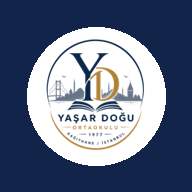
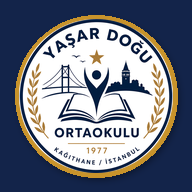
Add files via upload

diff --git a/app.js b/app.js
@@ -145,6 +145,16 @@
   }
   function programVar(y) { var p = kisisel(y, 'program'); return (p && p.matris && typeof p.matris === 'object') ? p : null; }
   function hucreAl(y, wd, no) { var p = programVar(y); if (!p) return null; var g = p.matris[String(wd)]; return g ? hucre(g[String(no)]) : null; }
+  var DERS_TAM = { mat: 'Matematik', tur: 'Türkçe', fen: 'Fen Bilimleri', ing: 'İngilizce', sos: 'Sosyal Bilgiler', ita: 'T.C. İnkılap Tarihi ve Atatürkçülük', dkab: 'Din Kültürü ve Ahlak Bilgisi', muz: 'Müzik', bes: 'Beden Eğitimi ve Spor', gs: 'Görsel Sanatlar' };
+  function dersTam(d) { var a = kzA(d); return (a && DERS_TAM[a]) || String(d || 'Ders'); }
+  function sinifSira(a, b) { var x = parseInt(a, 10) || 0, z = parseInt(b, 10) || 0; return x !== z ? x - z : (a < b ? -1 : a > b ? 1 : 0); }
+  function dersGruplari(y) {
+    var p = programVar(y), g = {}, out = []; if (!p) return out;
+    for (var wd = 1; wd <= 5; wd++) { var gg = p.matris[String(wd)] || {}; Object.keys(gg).forEach(function (no) { var h = hucre(gg[no]); if (!h) return; var k = h.sinif + '|' + h.ders; if (!g[k]) { g[k] = { sinif: h.sinif, ders: h.ders, slots: [] }; out.push(g[k]); } g[k].slots.push({ wd: wd, no: +no }); }); }
+    out.sort(function (a, b) { var t = dersTam(a.ders).localeCompare(dersTam(b.ders), 'tr'); return t || sinifSira(a.sinif, b.sinif); });
+    out.forEach(function (x, i) { x.i = i; x.tam = dersTam(x.ders); });
+    return out;
+  }
   function doldurmaListe(y) { var d = kisisel(y, 'doldurma'); return (d && Array.isArray(d.liste)) ? d.liste.filter(function (x) { return x && /^\d{4}-\d{2}-\d{2}$/.test(x.tarih || ''); }) : []; }
   function nobetim(y) {
     var n = kisisel(y, 'nobetim'); if (!n) return { liste: [], gelecek: null };
@@ -168,6 +178,7 @@
     var p = ortak(y, 'pano'), bg = iso(simdi());
     return (p && Array.isArray(p.haberler)) ? p.haberler.filter(function (h) { return h && h.baslik && (!h.bitis || h.bitis >= bg); }) : [];
   }
+  function belirliListe(y) { var b = ortak(y, 'slayt:belirliGun'), bg = iso(simdi()); return (b && Array.isArray(b.satirlar)) ? b.satirlar.filter(function (x) { return x && x.ad && ISODT.test(x.bas || '') && (x.bit || x.bas) >= bg; }).sort(function (p, q) { return p.bas < q.bas ? -1 : 1; }) : []; }
   function baglantiListe(y) {
     var p = ortak(y, 'pano'), out = [];
     if (p && Array.isArray(p.baglantilar)) p.baglantilar.forEach(function (b) { var g = b && guvenliLink(b.url); if (g && b.ad) out.push({ ad: String(b.ad), g: g }); });
@@ -277,8 +288,15 @@
     if (HO === true && Date.now() - HSON > GERI_MS) HO = null;
     return HO === true ? 'slayt' : 'sayac';
   }
-  var ONE_RENK = { 'Yarına bakış': '#79D1C3', 'Ders başlamadan': '#79D1C3', 'Gün tamamlandı': '#79D1C3', 'Hafta sonu': '#79D1C3', 'Bugün okul tatil': '#79D1C3', 'Belirli gün': '#B5A3FF', 'Nöbet düzeni': 'var(--gold)', 'Okuldan': 'var(--gold)', 'Duyuru': 'var(--gold)', 'Etkinlik': '#B5A3FF', 'Hatırlatma': '#79D1C3' };
+  var ONE_RENK = { 'Yarına bakış': '#79D1C3', 'Ders başlamadan': '#79D1C3', 'Gün tamamlandı': '#79D1C3', 'Hafta sonu': '#79D1C3', 'Bugün okul tatil': '#79D1C3', 'Belirli gün': '#B5A3FF', 'Nöbet düzeni': 'var(--gold)', 'Okuldan': 'var(--gold)', 'Duyuru': 'var(--gold)', 'Etkinlik': '#B5A3FF', 'Hatırlatma': '#79D1C3', 'Bugün sende': '#79D1C3', 'Nöbetin': '#7DB6F2', 'Yaklaşan sınav': '#B5A3FF', 'Sonraki tatil': '#F08A7E', 'Bu haftanın kazanımı': 'var(--gold)', 'Eğitim haftası': '#79D1C3', 'Derslerin': '#B5A3FF' };
   var IKN = {
+    'Bugün sende': '<path d="M5 4h10a3 3 0 013 3v13H8a3 3 0 01-3-3zM5 17a3 3 0 013-3h10"/>',
+    'Nöbetin': '<path d="M4 9a6 6 0 016-5h7M17 4l-2.5-2M17 4l-2.5 2.5M20 15a6 6 0 01-6 5H7M7 20l2.5 2M7 20l2.5-2.5"/>',
+    'Yaklaşan sınav': '<path d="M7 3h8l4 4v14H7zM14 3v5h5M10 13h6M10 17h4"/>',
+    'Sonraki tatil': '<circle cx="12" cy="12" r="4"/><path d="M12 3v2M12 19v2M3 12h2M19 12h2M5.6 5.6L7 7M17 17l1.4 1.4M5.6 18.4L7 17M17 7l1.4-1.4"/>',
+    'Bu haftanın kazanımı': '<circle cx="12" cy="12" r="8.5"/><circle cx="12" cy="12" r="4"/><path d="M12 12l5-5"/>',
+    'Derslerin': '<path d="M5 4h10a3 3 0 013 3v13H8a3 3 0 01-3-3zM5 17a3 3 0 013-3h10M9 8h5"/>',
+    'Eğitim haftası': '<rect x="4" y="5.5" width="16" height="14" rx="2.5"/><path d="M4 10h16M8.5 3.5v4M15.5 3.5v4"/>',
     'Okuldan': '<path d="M4 10v4h3l5 4V6L7 10H4zM16 9.5a3.5 3.5 0 010 5M18.5 7a7 7 0 010 10"/>',
     'Etkinlik': '<rect x="4" y="5.5" width="16" height="14" rx="2.5"/><path d="M4 10h16M8.5 3.5v4M15.5 3.5v4"/>',
     'Hatırlatma': '<path d="M6 16.5V11a6 6 0 0112 0v5.5l1.5 1.5h-15zM10 20.5a2 2 0 004 0"/>',
@@ -313,10 +331,80 @@
     var par = metinVeLink(String(d.metin || '')), ad = { etkinlik: 'Etkinlik', hatirlatma: 'Hatırlatma' }[d.tur] || 'Okuldan';
     return oneKart({ k: ad, t: d.baslik, s: [z, par.metin.replace(/\s+/g, ' ').slice(0, 90)].filter(Boolean).join(' · ') }, true);
   }
+  // ---- Zengin slayt kartları: yalnız GERÇEK içerik varsa kart üretilir (boş kart yok)
+  var KZS = {};
+  function isGunu(a, bds) { var n = 0, d = gunEkle(a, 1), son = tarihCoz(bds); for (var i = 0; i < 400 && d <= son; i++) { var w = d.getDay(); if (w >= 1 && w <= 5) n++; d = gunEkle(d, 1); } return n; }
+  function gunFark(a, bds) { return Math.round((tarihCoz(bds) - tarihCoz(a)) / 86400000); }
+  function kzSlayt(C) {
+    var y = C.y; if (!programVar(y)) return null;
+    var G = C.gb, d = C.d;
+    if (!(G.tip === 'ders' && G.ders.length && C.T < C.Z0)) { var nx = sonrakiOkul(C); if (!nx) return null; G = nx.gb; d = nx.d; }
+    var my = null, ea = null;
+    for (var i = 0; i < G.ders.length && !my; i++) { var h = hucreAl(y, G.wd, i + 1); if (h) { var e = kzEsle(h); if (e && e.a) { my = h; ea = e; } } }
+    if (!my) return null;
+    var g = parseInt(my.sinif, 10); if (!(g >= 5 && g <= 8)) return null;
+    var pl = kzPlan(my, (ea.a === 'sos' && g === 8) ? 'ita' : ea.a); if (!pl) return null;
+    var ds = iso(d), key = pl.f + '|' + ds;
+    if (key in KZS) return KZS[key] || null;
+    KZS[key] = false;
+    kzJson('kazanim/' + pl.f).then(function (P) {
+      if (!P || !Array.isArray(P.haftalar)) return;
+      var hf = kzHafta(P, ds); if (!hf || !hf.m || !hf.m.length) return;
+      var m0 = hf.m[0], tx = String(m0.t || '').replace(/\s+/g, ' ');
+      KZS[key] = { k: 'Bu haftanın kazanımı', t: my.sinif + (my.ders ? ' ' + my.ders : '') + (m0.k ? ' · ' + m0.k : ''), s: (tx.length > 110 ? tx.slice(0, 107) + '…' : tx) + (hf.m.length > 1 ? ' (+' + (hf.m.length - 1) + ' kazanım daha)' : ''), dt: 'gun:' + ds };
+      if (!kilit && !DT.acik) render();
+    });
+    return null;
+  }
+  function yeniSlaytlar(C) {
+    var y = C.y, out = [], bg = C.gb.ds; if (!y || C.gb.tip === 'yok') return out;
+    var planli = !!programVar(y), bitti = C.gb.tip === 'ders' && C.T >= C.Z0, ol = null;
+    function olaylarAl() { return ol || (ol = olaylar(y)); }
+    // 0) Hafta sonu: tek bir 'İyi Tatiller' mesajı
+    if (C.gb.tip === 'hs') out.push({ k: 'Hafta sonu', t: 'İyi Tatiller', s: '', dt: '' });
+    // 1) Bugün sende
+    if (planli && C.gb.tip === 'ders' && C.gb.ders.length && !bitti) {
+      var n = 0, ilk = 0, i;
+      for (i = 1; i <= C.gb.ders.length; i++) if (hucreAl(y, C.gb.wd, i)) { n++; if (!ilk) ilk = i; }
+      if (n) { var ih = hucreAl(y, C.gb.wd, ilk); out.push({ k: 'Bugün sende', t: 'Bugün ' + n + ' dersin var', s: 'İlk dersin ' + C.gb.ders[ilk - 1][1] + '\'da' + (ih ? ', ' + ih.sinif : ''), dt: 'gun:' + bg }); }
+    }
+    // 2) Nöbetin (bu hafta ya da gelecek 7 gün içindeki ilk nöbet günü)
+    for (var j = (bitti ? 1 : 0); j <= 7; j++) {
+      var dj = gunEkle(C.d, j), gj = gunBilgi(y, dj); if (gj.tip !== 'ders') continue;
+      var yer = nobetYer(y, gj.wd, iso(dj));
+      if (yer) { out.push({ k: 'Nöbetin', t: (j === 0 ? 'Bugün' : (j === 1 ? 'Yarın' : GUN[dj.getDay()])) + ' nöbetin var', s: yer, dt: 'nbd' }); break; }
+    }
+    // 3) Yaklaşan sınav (14 gün içinde)
+    var son14 = iso(gunEkle(C.d, 14)), sn = olaylarAl().filter(function (o) { return o.k === 'sinav' && o.bit >= bg && o.bas <= son14; })[0];
+    if (sn) {
+      var kl = gunFark(bg, sn.bas), kt = sn.bas <= bg ? 'Şu an' : (kl === 1 ? 'Yarın' : kl + ' gün sonra');
+      out.push({ k: 'Yaklaşan sınav', t: sn.ad, s: sn.hafta ? kt + ' · ' + aralik(sn.bas, sn.bit) : kt + ' · ' + gunAy(sn.bas) + (sn.alt ? ' · ' + sn.alt : ''), dt: olayKodu(sn) });
+    }
+    // 4) Sonraki tatil: takvim günü olarak kalan gün + tarihler (hafta sonu tatil sayılmaz, listeden yalnız gerçek tatiller seçilir)
+    var th = ortak(y, 'tatil');
+    if (th && Array.isArray(th.liste) && C.gb.tip !== 'tatil') {
+      var tl = th.liste.filter(function (h) { return h && ISODT.test(h.bas || '') && !h.yarim && h.bas > bg; }).sort(function (p, q) { return p.bas < q.bas ? -1 : 1; })[0];
+      if (tl) {
+        var N = gunFark(bg, tl.bas), tad = String(tl.ad || 'Tatil'), te = olaylarAl().filter(function (o) { return o.k === 'tatil' && o.bas === tl.bas; })[0];
+        out.push({ k: 'Sonraki tatil', t: tad + ' · ' + (N <= 1 ? 'yarın' : N + ' gün kaldı'), s: aralik(tl.bas, tl.bit || tl.bas), dt: te ? olayKodu(te) : '' });
+      }
+    }
+    // 4b) Derslerin: her ders için şubeleri (dokununca liste)
+    var dg = dersGruplari(y), dgrp = {}, dsr = [];
+    dg.forEach(function (x) { var k = kzAd(x.tam); if (!dgrp[k]) { dgrp[k] = { tam: x.tam, sin: [], saat: 0, k: k }; dsr.push(dgrp[k]); } dgrp[k].sin.push(x.sinif); dgrp[k].saat += x.slots.length; });
+    dsr.forEach(function (x) { out.push({ k: 'Derslerin', t: x.tam, s: x.sin.join(' · ') + ' — haftada ' + x.saat + ' saat', dt: dg.length === 1 ? 'dr:0' : 'dl:' + x.k }); });
+    // 5) Bu haftanın kazanımı (ders programı + kazanım planı; yoksa kart çıkmaz)
+    var kz = kzSlayt(C); if (kz) out.push(kz);
+    // 6) Eğitim-öğretim haftası
+    var eo = ortak(y, 'egitimhaftasi'); if (!eo || !Array.isArray(eo.liste)) eo = (KZ.idx && Array.isArray(KZ.idx.hafta)) ? { liste: KZ.idx.hafta } : null;
+    if (eo) for (var q = 0; q < eo.liste.length; q++) { var eh = eo.liste[q]; if (eh && ISODT.test(eh.bas || '') && ISODT.test(eh.bit || '') && eh.bas <= bg && bg <= eh.bit && +eh.n > 0) { out.push({ k: 'Eğitim haftası', t: eh.n + '. eğitim-öğretim haftası', s: aralik(eh.bas, eh.bit), dt: '' }); break; } }
+    return out;
+  }
   function heroSlaytlar(C) {
     var y = C.y, s = [], akt = dersAnimi(C);
     if (yayinlandi(y, 'gokyuzu')) s.push({ id: 'gokyuzu' });
     if (!akt) s.push({ id: 'durum', h: durumKarti(C, 0) });
+    if (!GIZLE.pano) yeniSlaytlar(C).forEach(function (p, i) { s.push({ id: 'y' + i, h: oneKart(p, true), dt: p.dt || undefined }); });
     duyuruListe(y).slice(0, 8).forEach(function (d, i) { s.push({ id: 'd' + i, h: duyuruKart(d, C), dt: 'du:' + i }); });
     if (!GIZLE.pano) oneCikanlar(C).forEach(function (p, i) { s.push({ id: 'o' + i, h: oneKart(p, true), dt: p.dt }); });
     if (!s.length) s.push({ id: 'durum', h: durumKarti(C, 0) });
@@ -369,7 +457,7 @@
     }
     var bgun = ortak(y, 'slayt:belirliGun');
     if (bgun && Array.isArray(bgun.satirlar)) {
-      var son = iso(gunEkle(C.d, 7)), b = null;
+      var son = iso(gunEkle(C.d, 14)), b = null;
       bgun.satirlar.forEach(function (x) { if (!b && x && x.ad && x.bit >= bg && x.bas <= son) b = x; });
       if (b) out.push({ k: 'Belirli gün', t: String(b.ad), s: aralik(b.bas, b.bit) + (b.bas <= bg ? ', şu an' : ''), c: '#7F62E0', dt: 'bg' });
     }
@@ -609,7 +697,7 @@
     if (!y) return damga(C) + '<div class="empty"><b>' + (durum.yenileniyor ? 'Bilgiler getiriliyor' : 'Bilgiler alınamadı') + '</b>' + (durum.yenileniyor ? '' : 'İnternet bağlantısını kontrol edip yenile.') + '</div>';
     if (eskiMi(onbellek())) return damga(C) + '<div class="empty"><b>Bilgiler eski olduğu için gizlendi</b>Son güncelleme ' + A.ESKI_SAAT + ' saatten önce. İnternete bağlanınca otomatik yenilenir.</div>';
     if (y.yayinDurumu !== 'acik') return damga(C) + '<div class="empty"><b>Yayın şu an kapalı</b>Okul yönetimi açtığında bilgiler burada görünecek.</div>';
-    var p = [sGunum(C), sYaklasan(C), sDuyuru(C), sNobetci(C), sPanoOzet(C)].join('');
+    var p = [sGunum(C), sNobetci(C), sDuyuru(C), sYaklasan(C), sPanoOzet(C)].join('');
     return damga(C) + (p || '<div class="empty"><b>Bugün paylaşılan bir şey yok</b>Yeni bir duyuru ya da bilgi paylaşıldığında bu sayfada görünür.</div>');
   }
   function yayinKapali(C) { return !C.y || eskiMi(onbellek()) || C.y.yayinDurumu !== 'acik'; }
@@ -650,13 +738,17 @@
     });
     return h + '</div>';
   }
+  function derslerimHTML(C) {
+    var l = dersGruplari(C.y); if (!l.length) return '';
+    return '<div class="sec">' + secH('Derslerim', l.length + ' ders-şube') + '<div class="dg">' + l.map(function (x) { return '<button type="button" class="dk" data-dt="dr:' + x.i + '"><b class="d">' + esc(x.sinif) + '</b><span>' + esc(x.tam) + '</span><em>haftada ' + x.slots.length + ' saat</em></button>'; }).join('') + '</div></div>';
+  }
   function programHTML(C) {
     var y = C.y, p = programVar(y);
     if (!p) return '<div class="empty"><b>Programın henüz yayınlanmadı</b>Okul yönetimi ders programını paylaştığında burada görünür.</div>';
     var toplam = 0, siniflar = {};
     for (var wd = 1; wd <= 5; wd++) { var g = p.matris[String(wd)] || {}; Object.keys(g).forEach(function (no) { var h = hucre(g[no]); if (h) { toplam++; siniflar[h.sinif] = 1; } }); }
     return '<div class="stamp"><i></i>Güncel program' + (p.yururluk && /^\d{4}-\d{2}-\d{2}$/.test(p.yururluk) ? ', ' + gunAy(p.yururluk) + ' tarihli' : '') + '</div>' + ttHTML(C)
-      + '<div class="lgd"><span><i style="background:var(--ink)"></i>Şu an</span><span><i style="border:1px solid var(--teal)"></i>Ders doldurma</span></div>'
+      + derslerimHTML(C) + '<div class="lgd"><span><i style="background:var(--ink)"></i>Şu an</span><span><i style="border:1px solid var(--teal)"></i>Ders doldurma</span></div>'
       + '<div class="stat"><div><b>' + toplam + '</b><span>haftalık ders</span></div><div><b>' + Object.keys(siniflar).length + '</b><span>farklı sınıf</span></div></div>';
   }
   function nobetSekmesi(C) {
@@ -725,11 +817,11 @@
     var liste = n.liste;
     if (n.gelecek && n.gelecek.bas <= a) liste = n.gelecek.liste;
     if (liste.length) nobetSatir = liste.slice().sort(function (p, q) { return p.gun - q.gun; }).map(function (x) { var d = gunEkle(mon, (+x.gun) - 1); return '<div class="rw" data-dt="gun:' + iso(d) + '"><div class="a"><b>' + GUN[(+x.gun) % 7] + ', ' + esc(x.yer) + '</b><span class="s">' + (iso(d) < C.gb.ds ? 'Tamamlandı.' : '') + '</span></div></div>'; }).join('');
-    if (sonraki && sonraki === a && n.gelecek && WK >= 1) h += '<div class="sec"><div class="rot"><p>Yeni nöbet düzenin, ' + esc(gunAy(a)) + ' tarihinden itibaren</p><p style="margin-top:10px;font-weight:500">Yönetim onayladı.</p></div></div>';
-    else if (sonraki && WK === 0 && iso(gunEkle(mon, 7)) === sonraki && n.gelecek) h += '<div class="sec"><div class="rot"><p>Gelecek hafta nöbet düzenin değişiyor</p><button class="lk" type="button" data-go="1">Gelecek haftaya bak</button></div></div>';
-    if (nobetSatir) h += '<div class="sec">' + secH('Nöbetin') + '<div class="rows">' + nobetSatir + '</div></div>';
     var ev = haftaKayitlari(C, mon);
     if (ev.length) h += '<div class="sec">' + secH(['Geçen', 'Bu', 'Gelecek'][WK + 1] + ' haftanın kayıtları', ev.length + ' kayıt') + '<div class="rows">' + ev.map(function (e) { return '<div class="rw" data-dt="gun:' + e[0] + '"><span class="z" style="min-width:46px;flex:none;white-space:nowrap;color:var(--tx);font-weight:650">' + esc(e[1]) + '</span><div class="a"><b>' + esc(e[2]) + '</b><span class="s">' + esc(e[3]) + '</span></div></div>'; }).join('') + '</div></div>';
+    if (nobetSatir) h += '<div class="sec">' + secH('Nöbetin') + '<div class="rows">' + nobetSatir + '</div></div>';
+    if (sonraki && sonraki === a && n.gelecek && WK >= 1) h += '<div class="sec"><div class="rot"><p>Yeni nöbet düzenin, ' + esc(gunAy(a)) + ' tarihinden itibaren</p><p style="margin-top:10px;font-weight:500">Yönetim onayladı.</p></div></div>';
+    else if (sonraki && WK === 0 && iso(gunEkle(mon, 7)) === sonraki && n.gelecek) h += '<div class="sec"><div class="rot"><p>Gelecek hafta nöbet düzenin değişiyor</p><button class="lk" type="button" data-go="1">Gelecek haftaya bak</button></div></div>';
     return h || '<div class="empty"><b>Bu hafta paylaşılan kayıt yok</b>Etkinlik, duyuru ya da nöbet değişikliği paylaşıldığında burada görünür.</div>';
   }
 
@@ -738,12 +830,15 @@
   function t3HTML(C) {
     if (yayinKapali(C)) return '<div class="empty"><b>Bilgiler şu an gösterilemiyor</b>Bugün sekmesinden durumu görebilirsin.</div>';
     var hab = haberListe(C.y).filter(function (h) { return CAT === 'Tümü' || (h.kat || 'Bilgi') === CAT; }), bag = baglantiListe(C.y), h = '';
-    if (bag.length) h += '<div class="sec">' + secH('Sık kullanılan bağlantılar') + '<div class="lg2">' + bag.map(function (b) { return '<a href="' + esc(b.g.href) + '" target="_blank" rel="noopener noreferrer"><b>' + esc(b.ad) + '</b><span>' + esc(b.g.alan) + '</span></a>'; }).join('') + '</div></div>';
-    if (hab.length) h += '<div class="sec">' + secH('Haberler ve duyurular') + '<div class="rows">' + hab.map(function (n) {
+    var du = duyuruListe(C.y), bl = belirliListe(C.y);
+    if (du.length && CAT === 'Tümü') h += '<div class="sec">' + secH('Okuldan duyurular', du.length + ' duyuru') + '<div class="rows">' + du.map(function (d, i) { var z = d.tarih ? gunAyK(d.tarih) + (saatOk(d.saat) ? ', ' + d.saat : '') : ''; return '<div class="rw" data-dt="du:' + i + '"><div class="a"><b>' + esc(d.baslik) + (yeniMi(duyuruAnahtar(d)) ? '<i class="dot"></i>' : '') + '</b>' + (d.metin ? '<span class="s">' + esc(metinVeLink(String(d.metin)).metin.replace(/\s+/g, ' ').slice(0, 90)) + '</span>' : '') + '</div>' + (z ? '<span class="z">' + esc(z) + '</span>' : '') + '</div>'; }).join('') + '</div></div>';
+    if (bl.length && CAT === 'Tümü') h += '<div class="sec">' + secH('Belirli gün ve haftalar') + '<div class="rows">' + bl.map(function (x) { return dtSatir('gun:' + x.bas, '', String(x.ad), aralik(x.bas, x.bit || x.bas), ''); }).join('') + '</div></div>';
+    if (hab.length) h += '<div class="sec">' + secH('Haberler') + '<div class="rows">' + hab.map(function (n) {
       var g = n.url ? guvenliLink(n.url) : null, o = g ? '<a class="nw" href="' + esc(g.href) + '" target="_blank" rel="noopener noreferrer">' : '<div class="nw" style="display:block" data-dt="hb:' + haberListe(C.y).indexOf(n) + '">';
       return o + '<p class="' + ((n.kat || '') === 'Eğitim' ? 'e' : '') + '">' + esc(n.kat || 'Bilgi') + '</p><div>' + esc(n.baslik) + (yeniMi(haberAnahtar(n)) ? '<i class="dot"></i>' : '') + '</div>' + (n.metin ? '<span class="s">' + esc(n.metin) + '</span>' : '') + '<footer><span>' + (n.bitis ? 'Son gün ' + esc(gunAyK(n.bitis)) : '') + '</span>' + (g ? '<em>' + esc(g.alan) + '</em>' + EXT : '') + '</footer>' + (g ? '</a>' : '</div>');
     }).join('') + '</div></div>';
-    return h || '<div class="empty"><b>Pano boş</b>Okul yönetimi haber ya da bağlantı eklediğinde burada görünür.</div>';
+    if (bag.length) h += '<div class="sec">' + secH('Sık kullanılan bağlantılar') + '<div class="lg2">' + bag.map(function (b) { return '<a href="' + esc(b.g.href) + '" target="_blank" rel="noopener noreferrer"><b>' + esc(b.ad) + '</b><span>' + esc(b.g.alan) + '</span></a>'; }).join('') + '</div></div>';
+    return h || '<div class="empty"><b>Pano boş</b>Okul yönetimi duyuru, haber ya da bağlantı eklediğinde burada görünür.</div>';
   }
 
   // ---- Üst alan
@@ -760,7 +855,7 @@
     }
     if (TAB === 3) {
       var cats = ['Tümü']; haberListe(y).forEach(function (h) { var k = h.kat || 'Bilgi'; if (cats.indexOf(k) < 0) cats.push(k); });
-      return logoBar(C, 'Öğretmen ekranı') + '<div class="tz d">Pano</div><div class="tzs">Okuldan ve eğitimden haberler, bağlantılar</div>' + (cats.length > 2 ? '<div class="chips" id="ch">' + cats.map(function (c) { return '<button type="button"' + (CAT === c ? ' class="on"' : '') + '>' + esc(c) + '</button>'; }).join('') + '</div>' : '');
+      return logoBar(C, 'Öğretmen ekranı') + '<div class="tz d">Pano</div><div class="tzs">Duyurular, belirli günler, haberler ve bağlantılar</div>' + (cats.length > 2 ? '<div class="chips" id="ch">' + cats.map(function (c) { return '<button type="button"' + (CAT === c ? ' class="on"' : '') + '>' + esc(c) + '</button>'; }).join('') + '</div>' : '');
     }
     var cvh = '<div class="tabs" id="cv">' + [['0', 'Hafta'], ['1', 'Ay']].map(function (x) { return '<button type="button" data-cv="' + x[0] + '"' + (CV === +x[0] ? ' class="on"' : '') + '>' + x[1] + '</button>'; }).join('') + '</div>';
     if (CV === 1) {
@@ -898,7 +993,7 @@ function skLocal(now){ const t=new Date(now.getTime()+SK_TZ*3600000); return {y:
     var C = baglam(); CTX = C;
     var gor = gorunurMu(C), nvw = $('nvw'), nvp = $('nvp');
     nvw.style.display = gor ? '' : 'none';
-    nvp.style.display = (gor && (haberListe(C.y).length || baglantiListe(C.y).length)) ? '' : 'none';
+    nvp.style.display = (gor && (haberListe(C.y).length || baglantiListe(C.y).length || duyuruListe(C.y).length || belirliListe(C.y).length)) ? '' : 'none';
     if ((TAB === 2 && nvw.style.display === 'none') || (TAB === 3 && nvp.style.display === 'none')) TAB = 0;
     [].forEach.call(document.querySelectorAll('nav button'), function (b) { b.classList.toggle('on', +b.getAttribute('data-t') === TAB); });
     var top = $('top'), hh = topHTML(C); top.innerHTML = hh; top.dataset.h = hh; top.dataset.kk = hh.replace(/\d+/g, '#');
@@ -916,12 +1011,17 @@ function skLocal(now){ const t=new Date(now.getTime()+SK_TZ*3600000); return {y:
     seenTimer = setTimeout(function () {
       if (document.hidden || kilit || !CTX || !CTX.y || yayinKapali(CTX)) return;
       if (TAB === 0) gorulduYaz(duyuruListe(CTX.y).map(duyuruAnahtar).concat(haberListe(CTX.y).map(haberAnahtar)));
-      else if (TAB === 3) gorulduYaz(haberListe(CTX.y).map(haberAnahtar));
+      else if (TAB === 3) gorulduYaz(haberListe(CTX.y).map(haberAnahtar).concat(duyuruListe(CTX.y).map(duyuruAnahtar)));
     }, 5000);
   }
   var BR = { gunum: 'var(--c-gunum)', yarin: 'var(--c-yarin)', yaklasan: 'var(--c-yaklasan)', neler: 'var(--c-neler)', nobet: 'var(--c-nobet)', pano: 'var(--c-pano)', not: 'var(--c-not)' };
   function bolgeAdi(e) {
     var t = (e.textContent || '').slice(0, 48).toLocaleLowerCase('tr'), k = e.getAttribute('data-k');
+    if (t.indexOf('okuldan duyurular') === 0) return 'neler';
+    if (t.indexOf('belirli gün') === 0) return 'yaklasan';
+    if (t.indexOf('haberler') === 0) return 'pano';
+    if (t.indexOf('sık kullanılan') === 0) return 'not';
+    if (t.indexOf('derslerim') === 0) return 'yarin';
     if (t.indexOf('günüm') === 0) { var on = document.querySelector('#gv button.on'); return on && on.getAttribute('data-v') !== 'b' ? 'yarin' : 'gunum'; }
     if (k === 'akis' || k === 'cov' || t.indexOf('ders doldurma') === 0 || t.indexOf('bugünkü program') === 0 || t.indexOf('gün akışı') === 0) return 'gunum';
     if (t.indexOf('yaklaşan') === 0 || t.indexOf('kayıtları') > 0) return 'yaklasan';
@@ -930,7 +1030,18 @@ function skLocal(now){ const t=new Date(now.getTime()+SK_TZ*3600000); return {y:
     if (t.indexOf('notların') === 0 || t.indexOf('hatırlatma') >= 0) return 'not';
     return 'pano';
   }
+  function kartla() {
+    ['t0', 't1', 't2', 't3'].forEach(function (id) {
+      var el = $(id); if (!el) return;
+      [].forEach.call(el.children, function (e) {
+        if (!e.classList.contains('sec') || !e.hasAttribute('data-r') && !e.firstElementChild) return;
+        if (e.firstElementChild && e.firstElementChild.classList.contains('kart')) return;
+        var k = document.createElement('div'); k.className = 'kart'; while (e.firstChild) k.appendChild(e.firstChild); e.appendChild(k);
+      });
+    });
+  }
   function bolgeRenk() {
+    kartla();
     ['t0', 't1', 't2', 't3'].forEach(function (id) {
       var el = $(id); if (!el) return;
       var l = [].filter.call(el.children, function (e) { return e.classList.contains('sec') && e.style.display !== 'none'; });
@@ -1109,6 +1220,8 @@ function skLocal(now){ const t=new Date(now.getTime()+SK_TZ*3600000); return {y:
     if (t === 'hb') return dtHaber(+p[1]);
     if (t === 'bg') return dtBelirli();
     if (t === 'ol') return dtOlay(+p[1]);
+    if (t === 'dr') return dtDers(+p[1]);
+    if (t === 'dl') return dtDersListe(p[1]);
   }
   function dtHucre(kk) {
     var C = CTX || baglam(), a = String(kk).split(','), g = haftaGunleri(C.d)[+a[0]]; if (!g) return;
@@ -1287,6 +1400,24 @@ function skLocal(now){ const t=new Date(now.getTime()+SK_TZ*3600000); return {y:
     dtGoster('Nöbetçi', h + '</div></div>');
   }
   function dtNbd() { var C = CTX || baglam(); dtGoster('Nöbet düzenin', nobetSekmesi(C)); }
+  function dtDers(i) {
+    var C = CTX || baglam(), g = dersGruplari(C.y)[i]; if (!g) return;
+    var y = C.y, sl = g.slots.slice().sort(function (a, b) { return a.wd - b.wd || a.no - b.no; }), ilk = null;
+    var h = '<div class="dbig d">' + esc(g.sinif) + '</div><div class="dsub">' + esc(g.tam) + ' · haftada ' + sl.length + ' saat</div><div class="rows">';
+    sl.forEach(function (x) {
+      var ds = sonrakiGun(x.wd), G = gunBilgi(y, tarihCoz(ds)), r = G.ders && G.ders[x.no - 1]; if (!ilk) ilk = ds;
+      h += dtSatir('dn:' + ds + ':' + x.no, GKISA[x.wd % 7], GUN[x.wd % 7] + ', ' + x.no + '. ders', r ? r[1] + ' – ' + r[2] : '', '');
+    });
+    h += '</div>';
+    var my = { sinif: g.sinif, ders: g.ders };
+    if (kzEsle(my)) h += '<div class="kzw" id="kzw" data-ds="' + ilk + '"><div class="kzn">Kazanımlar yükleniyor…</div></div>';
+    dtGoster('Ders', h);
+    if (kzEsle(my)) kzDoldur(my, ilk);
+  }
+  function dtDersListe(k) {
+    var C = CTX || baglam(), l = dersGruplari(C.y).filter(function (x) { return kzAd(x.tam) === k; }); if (!l.length) return;
+    dtGoster(l[0].tam, '<div class="dsub">' + l.length + ' şube · haftada ' + l.reduce(function (a, x) { return a + x.slots.length; }, 0) + ' saat</div><div class="rows">' + l.map(function (x) { return dtSatir('dr:' + x.i, '', x.sinif, 'haftada ' + x.slots.length + ' saat', ''); }).join('') + '</div>');
+  }
   function dtDuyuru(i) {
     var C = CTX || baglam(), d = duyuruListe(C.y)[i]; if (!d) return;
     var par = metinVeLink(String(d.metin || '')), z = d.tarih ? (d.tarih === C.gb.ds ? 'Bugün' : GUN[tarihCoz(d.tarih).getDay()] + ', ' + gunAy(d.tarih)) : ''; if (saatOk(d.saat)) z += (z ? ', ' : '') + d.saat;
@@ -1396,7 +1527,7 @@ function skLocal(now){ const t=new Date(now.getTime()+SK_TZ*3600000); return {y:
     var L = $('lock'), n = kilit.adim === 'okul' ? 6 : 4;
     L.textContent = ''; L.className = 'lock on' + (kilit.mesgul ? ' busy' : '');
     function e(tag, cls, text) { var x = document.createElement(tag); if (cls) x.className = cls; if (text != null) x.textContent = text; return x; }
-    var im = e('img'); im.src = LOGO; im.alt = ''; L.appendChild(im);
+    var im = e('img'); im.src = LOGO; im.alt = ''; var lw = e('div', 'logo3d'); lw.appendChild(im); L.appendChild(lw);
     L.appendChild(e('h1', '', kilit.adim === 'okul' ? 'Okul kodunu gir' : 'Kişisel kodunu gir'));
     L.appendChild(e('p', 'sub', kilit.adim === 'okul' ? 'Okul yönetiminden aldığın 6 haneli kodu yaz. Bu cihaza bir kez girmen yeterli.' : 'Sana özel verilen 4 haneli kodu yaz. Bu kod yalnız senin ders programını ve nöbetlerini açar.'));
     var kutu = e('div', 'cod'); kutu.setAttribute('aria-label', 'Girilen kod');

diff --git a/app.css b/app.css
@@ -497,3 +497,48 @@ a.dl small{font-weight:500;color:var(--mut);font-size:12.5px}
 #t0>.sec[data-r],#t1>.sec[data-r],#t2>.sec[data-r],#t3>.sec[data-r]{--mut:#586478}
 @media(prefers-color-scheme:dark){:root:not([data-th=light]) #t0>.sec[data-r],:root:not([data-th=light]) #t1>.sec[data-r],:root:not([data-th=light]) #t2>.sec[data-r],:root:not([data-th=light]) #t3>.sec[data-r]{--mut:#8E9CBA}}
 :root[data-th=dark] #t0>.sec[data-r],:root[data-th=dark] #t1>.sec[data-r],:root[data-th=dark] #t2>.sec[data-r],:root[data-th=dark] #t3>.sec[data-r]{--mut:#8E9CBA}
+
+/* ===== Giriş ekranı: açık, 3 boyutlu logo (panelin giriş ekranındaki efektle aynı) ===== */
+.logo3d{position:relative;width:132px;height:132px;margin:0 auto}
+.logo3d::before{content:"";position:absolute;left:6%;right:-4%;bottom:-12px;height:18px;border-radius:50%;background:radial-gradient(ellipse at center,rgba(11,31,63,.55) 0%,rgba(11,31,63,.28) 45%,rgba(11,31,63,0) 72%);filter:blur(3px)}
+.logo3d::after{content:"";position:absolute;inset:2px;border-radius:50%;pointer-events:none;z-index:2;background:radial-gradient(circle at 30% 22%,rgba(255,255,255,.20) 0%,rgba(255,255,255,0) 40%);box-shadow:inset 1.5px 2px 2px rgba(255,255,255,.7),inset -2px -3px 4px rgba(11,31,63,.30)}
+.lock .logo3d img{position:relative;z-index:1;width:100%;height:100%;border-radius:0;background:none;padding:0;object-fit:contain;display:block;filter:drop-shadow(1px 2px 1px rgba(11,31,63,.55)) drop-shadow(4px 8px 7px rgba(11,31,63,.38)) drop-shadow(10px 18px 16px rgba(11,31,63,.22))}
+.lock{background:radial-gradient(120% 70% at 50% 6%,#FFFFFF 0,#EAF1FC 52%,#D5E3F6 100%);color:#13244A;padding-top:54px;align-items:stretch}
+.lock h1{color:#13244A;text-align:center;margin-top:34px}
+.lock p,.lock p.sub{color:#4A5A7C;text-align:center}
+.lock .cod i{border:1.5px solid #B9C6DE;background:#fff;color:#13244A;box-shadow:0 1px 3px rgba(19,36,74,.06)}
+.lock .cod i.f{border-color:var(--gold);box-shadow:0 0 0 3px rgba(200,147,43,.2)}
+.lock .kp button{background:#fff;color:#13244A;box-shadow:0 2px 7px rgba(19,36,74,.10),0 0 0 1px rgba(19,36,74,.05)}
+.lock .kp button:active{background:#EEF3FB}
+.lock .er{color:#B3392C;text-align:center}
+.lock .geri{color:#4A5A7C;align-self:center}
+@media(prefers-color-scheme:dark){:root:not([data-th=light]) .lock{background:radial-gradient(120% 70% at 50% 6%,#1E3563 0,#14264E 55%,#0B1429 100%);color:#fff}:root:not([data-th=light]) .lock h1{color:#fff}:root:not([data-th=light]) .lock p,:root:not([data-th=light]) .lock p.sub{color:rgba(255,255,255,.7)}:root:not([data-th=light]) .lock .cod i{background:transparent;border-color:rgba(255,255,255,.28);color:#fff;box-shadow:none}:root:not([data-th=light]) .lock .kp button{background:rgba(255,255,255,.1);color:#fff;box-shadow:none}:root:not([data-th=light]) .lock .er{color:#ffb4a8}:root:not([data-th=light]) .lock .geri{color:rgba(255,255,255,.75)}}
+:root[data-th=dark] .lock{background:radial-gradient(120% 70% at 50% 6%,#1E3563 0,#14264E 55%,#0B1429 100%);color:#fff}:root[data-th=dark] .lock h1{color:#fff}:root[data-th=dark] .lock p,:root[data-th=dark] .lock p.sub{color:rgba(255,255,255,.7)}:root[data-th=dark] .lock .cod i{background:transparent;border-color:rgba(255,255,255,.28);color:#fff;box-shadow:none}:root[data-th=dark] .lock .kp button{background:rgba(255,255,255,.1);color:#fff;box-shadow:none}:root[data-th=dark] .lock .er{color:#ffb4a8}:root[data-th=dark] .lock .geri{color:rgba(255,255,255,.75)}
+/* Üst çubuktaki küçük logo: aynı madalyon hissi */
+.bar .lg{width:36px;height:36px;box-shadow:0 2px 6px rgba(0,0,0,.35),inset 1px 1px 1px rgba(255,255,255,.85),inset -1px -2px 3px rgba(11,31,63,.25)}
+.bar .lg img{width:32px;height:32px;filter:drop-shadow(0 1px 1px rgba(11,31,63,.4))}
+
+/* ===== Kategori kartları (A: cam kart) ===== */
+#t0>.sec[data-r],#t1>.sec[data-r],#t2>.sec[data-r],#t3>.sec[data-r]{padding:14px 14px}
+.kart{position:relative;padding:20px 16px 22px;border-radius:26px;background:color-mix(in srgb,var(--surf) 62%,transparent);border:1px solid color-mix(in srgb,var(--sc) 30%,transparent);box-shadow:0 1px 0 rgba(255,255,255,.7) inset,0 10px 28px -14px color-mix(in srgb,var(--sc) 55%,transparent);-webkit-backdrop-filter:blur(6px);backdrop-filter:blur(6px)}
+.kart>h2{margin-top:0}
+.kart>h2::before{content:'';width:9px;height:9px;border-radius:50%;background:var(--sc);align-self:center;flex:none;box-shadow:0 0 0 4px color-mix(in srgb,var(--sc) 22%,transparent)}
+.kart .pano,.kart .gstrip,.kart .ystrip{margin-left:-16px;margin-right:-16px;padding-left:16px;padding-right:16px}
+:root[data-th=dark] .kart{background:color-mix(in srgb,var(--surf) 55%,transparent);box-shadow:0 10px 28px -14px color-mix(in srgb,var(--sc) 45%,transparent)}
+@media(prefers-color-scheme:dark){:root:not([data-th=light]) .kart{background:color-mix(in srgb,var(--surf) 55%,transparent);box-shadow:0 10px 28px -14px color-mix(in srgb,var(--sc) 45%,transparent)}}
+/* Derslerim */
+.dg{display:grid;grid-template-columns:1fr 1fr;gap:10px;margin-top:14px}
+.dk{appearance:none;text-align:left;background:var(--surf);border:1px solid var(--line);border-radius:16px;padding:12px 14px;font:inherit;color:var(--tx);cursor:pointer;display:flex;flex-direction:column;gap:2px}
+.dk b{font-family:'Bricolage Grotesque';font-size:26px;font-weight:600;letter-spacing:-.4px}
+.dk span{font-size:13.5px;font-weight:600;line-height:1.25}
+.dk em{font-style:normal;font-size:12px;color:var(--mut);margin-top:2px}
+.dk:active{transform:scale(.98)}
+.dk span{text-transform:none;letter-spacing:0;font-size:13.5px;color:var(--tx)}
+.dk em{text-transform:none;letter-spacing:0}
+
+/* ===== Cam etkisi: arkada renk bulutları + daha saydam, buzlu kart ===== */
+#t0>.sec[data-r],#t1>.sec[data-r],#t2>.sec[data-r],#t3>.sec[data-r]{position:relative;overflow:hidden;isolation:isolate}
+#t0>.sec[data-r]::before,#t1>.sec[data-r]::before,#t2>.sec[data-r]::before,#t3>.sec[data-r]::before{content:'';position:absolute;inset:0;z-index:-1;pointer-events:none;background:radial-gradient(120px 90px at 12% 18%,color-mix(in srgb,var(--sc) 42%,transparent),transparent 70%),radial-gradient(150px 110px at 92% 55%,color-mix(in srgb,var(--sc) 34%,transparent),transparent 72%),radial-gradient(110px 80px at 30% 98%,color-mix(in srgb,var(--sc) 28%,transparent),transparent 70%)}
+.kart{background:linear-gradient(135deg,rgba(255,255,255,.52),rgba(255,255,255,.22));border:1px solid rgba(255,255,255,.75);box-shadow:0 1px 0 rgba(255,255,255,.9) inset,0 0 0 1px color-mix(in srgb,var(--sc) 22%,transparent),0 12px 30px -14px color-mix(in srgb,var(--sc) 60%,transparent);-webkit-backdrop-filter:blur(14px) saturate(1.5);backdrop-filter:blur(14px) saturate(1.5)}
+:root[data-th=dark] .kart{background:linear-gradient(135deg,rgba(255,255,255,.12),rgba(255,255,255,.04));border:1px solid rgba(255,255,255,.18);box-shadow:0 1px 0 rgba(255,255,255,.12) inset,0 12px 30px -14px color-mix(in srgb,var(--sc) 55%,transparent)}
+@media(prefers-color-scheme:dark){:root:not([data-th=light]) .kart{background:linear-gradient(135deg,rgba(255,255,255,.12),rgba(255,255,255,.04));border:1px solid rgba(255,255,255,.18);box-shadow:0 1px 0 rgba(255,255,255,.12) inset,0 12px 30px -14px color-mix(in srgb,var(--sc) 55%,transparent)}}

diff --git a/index.html b/index.html
@@ -10,28 +10,30 @@
 <meta name="robots" content="noindex,nofollow">
 <title>Yaşar Doğu Öğretmen</title>
 <link rel="manifest" href="manifest.webmanifest">
-<link rel="apple-touch-icon" href="ikon/ikon-192.png">
-<link rel="icon" href="ikon/ikon-192.png">
+<link rel="apple-touch-icon" href="ikon/apple-180.png?v=2">
+<link rel="icon" href="ikon/ikon-192.png?v=2">
 <link rel="stylesheet" href="app.css">
 <style id="splcss">
-#spl{position:fixed;inset:0;z-index:99999;display:flex;flex-direction:column;align-items:center;justify-content:center;gap:0;padding:24px;text-align:center;color:#fff;background:radial-gradient(120% 80% at 50% 25%,#1E3563 0,#13244A 55%,#0B1429 100%);font-family:system-ui,-apple-system,"Segoe UI",Roboto,sans-serif;transition:opacity .45s ease,visibility .45s}
+#spl{position:fixed;inset:0;z-index:99999;display:flex;flex-direction:column;align-items:center;justify-content:center;gap:0;padding:24px;text-align:center;color:#13244A;background:radial-gradient(120% 80% at 50% 18%,#FFFFFF 0,#EAF1FC 52%,#D5E3F6 100%);font-family:system-ui,-apple-system,"Segoe UI",Roboto,sans-serif;transition:opacity .45s ease,visibility .45s}
 #spl.bit{opacity:0;visibility:hidden;pointer-events:none}
-#spl .lg{position:relative;width:132px;height:132px;display:flex;align-items:center;justify-content:center;animation:splN 2.6s ease-in-out infinite}
-#spl .lg:before{content:"";position:absolute;inset:14px;border-radius:50%;background:#F3F5F9;box-shadow:0 0 0 6px rgba(255,255,255,.08),0 0 44px rgba(200,147,43,.28)}
-#spl .lg img{position:relative;width:84px;height:84px;object-fit:contain}
-#spl .rg{position:absolute;inset:0;width:100%;height:100%;animation:splD 1.15s linear infinite}
-#spl .rg circle{fill:none;stroke-width:3;stroke-linecap:round}
-#spl .rg .a{stroke:rgba(255,255,255,.12)}#spl .rg .b{stroke:#C8932B;stroke-dasharray:70 270}
-#spl h1{margin:26px 0 0;font-size:24px;font-weight:650;letter-spacing:-.3px}
-#spl p{margin:8px 0 0;font-size:16px;color:#C9D3EA;min-height:22px}
-#spl small{margin-top:30px;font-size:12.5px;letter-spacing:.3px;color:#8E9CBA}
-@keyframes splD{to{transform:rotate(360deg)}}
-@keyframes splN{0%,100%{transform:scale(1)}50%{transform:scale(1.035)}}
-@media(prefers-reduced-motion:reduce){#spl .lg{animation:none}#spl .rg{animation-duration:3s}}
+#spl .l3{position:relative;width:168px;height:168px;margin:0 auto 6px;animation:splN 2.8s ease-in-out infinite}
+#spl .l3:before{content:"";position:absolute;left:6%;right:-4%;bottom:-14px;height:22px;border-radius:50%;background:radial-gradient(ellipse at center,rgba(11,31,63,.55) 0%,rgba(11,31,63,.28) 45%,rgba(11,31,63,0) 72%);filter:blur(3px)}
+#spl .l3:after{content:"";position:absolute;inset:2px;border-radius:50%;pointer-events:none;z-index:2;background:radial-gradient(circle at 30% 22%,rgba(255,255,255,.20) 0%,rgba(255,255,255,0) 40%);box-shadow:inset 1.5px 2px 2px rgba(255,255,255,.7),inset -2px -3px 4px rgba(11,31,63,.30)}
+#spl .l3 img{position:relative;z-index:1;width:100%;height:100%;object-fit:contain;display:block;filter:drop-shadow(1px 2px 1px rgba(11,31,63,.55)) drop-shadow(4px 8px 7px rgba(11,31,63,.38)) drop-shadow(10px 18px 16px rgba(11,31,63,.22))}
+#spl h1{margin:36px 0 0;font-size:24px;font-weight:650;letter-spacing:-.3px;color:#13244A}
+#spl p{margin:8px 0 0;font-size:16px;color:#4A5A7C;min-height:22px}
+#spl small{margin-top:26px;font-size:12.5px;letter-spacing:.3px;color:#7C8AA6}
+#spl .dt{display:flex;gap:7px;margin-top:26px}
+#spl .dt i{width:7px;height:7px;border-radius:50%;background:#C8932B;opacity:.25;animation:splB 1.1s ease-in-out infinite}
+#spl .dt i:nth-child(2){animation-delay:.18s}#spl .dt i:nth-child(3){animation-delay:.36s}
+@keyframes splB{0%,100%{opacity:.25;transform:scale(.8)}40%{opacity:1;transform:scale(1.18)}}
+@keyframes splN{0%,100%{transform:scale(1)}50%{transform:scale(1.03)}}
+@media(prefers-color-scheme:dark){#spl{color:#fff;background:radial-gradient(120% 80% at 50% 25%,#1E3563 0,#13244A 55%,#0B1429 100%)}#spl h1{color:#fff}#spl p{color:#C9D3EA}#spl small{color:#8E9CBA}}
+@media(prefers-reduced-motion:reduce){#spl .l3,#spl .dt i{animation:none}#spl .dt i{opacity:.7}}
 </style>
 
 </head><body>
-<div id="spl" role="status" aria-live="polite" aria-label="Yükleniyor"><div class="lg"><svg class="rg" viewBox="0 0 132 132" aria-hidden="true"><circle class="a" cx="66" cy="66" r="62"/><circle class="b" cx="66" cy="66" r="62"/></svg><img src="ikon/logo.png" alt="" width="84" height="84"></div><h1>Yaşar Doğu Öğretmen</h1><p id="splh">Hoş geldiniz</p><small>Yükleniyor…</small></div>
+<div id="spl" role="status" aria-live="polite" aria-label="Yükleniyor"><div class="l3"><img src="ikon/logo.png" alt="" width="168" height="168"></div><h1>Yaşar Doğu Öğretmen</h1><p id="splh">Hoş geldiniz</p><div class="dt" aria-hidden="true"><i></i><i></i><i></i></div></div>
 <script src="acilis.js"></script>
 <div class="phone" id="ph">
 <div class="mini" id="mini"><b id="mb"></b><span id="ms"></span></div>

diff --git a/config.js b/config.js
@@ -1,7 +1,7 @@
 // Tek ayar dosyası. Okuma ucunun adresi burada. Başka okula verilirken yalnız bu dosya değişir.
 window.OGR_AYAR = {
   UC: 'https://script.google.com/macros/s/AKfycby-mj69_ce7IXRTEMaQkfV3dhA4V2WCUhTAqQ0PG-QXmslHaHTl8XHEnH1IEmq_gtzSgQ/exec',
-  SURUM: '0.9.1',
+  SURUM: '0.9.2',
   ESKI_SAAT: 12,        // önbellekteki bilgi bu süreden eskiyse gizlenir
   YENILE_DK: 5          // uygulama açık ve görünürken kaç dakikada bir yeniler
 };
